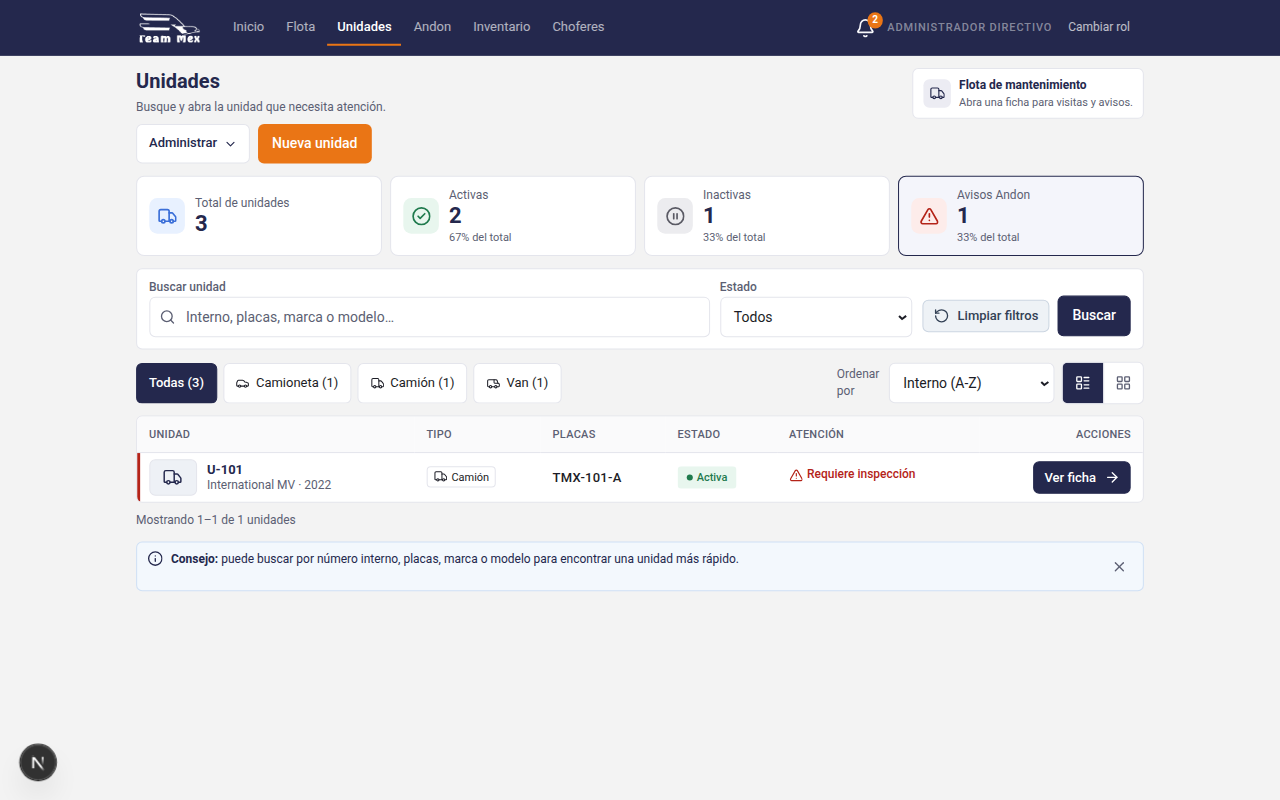
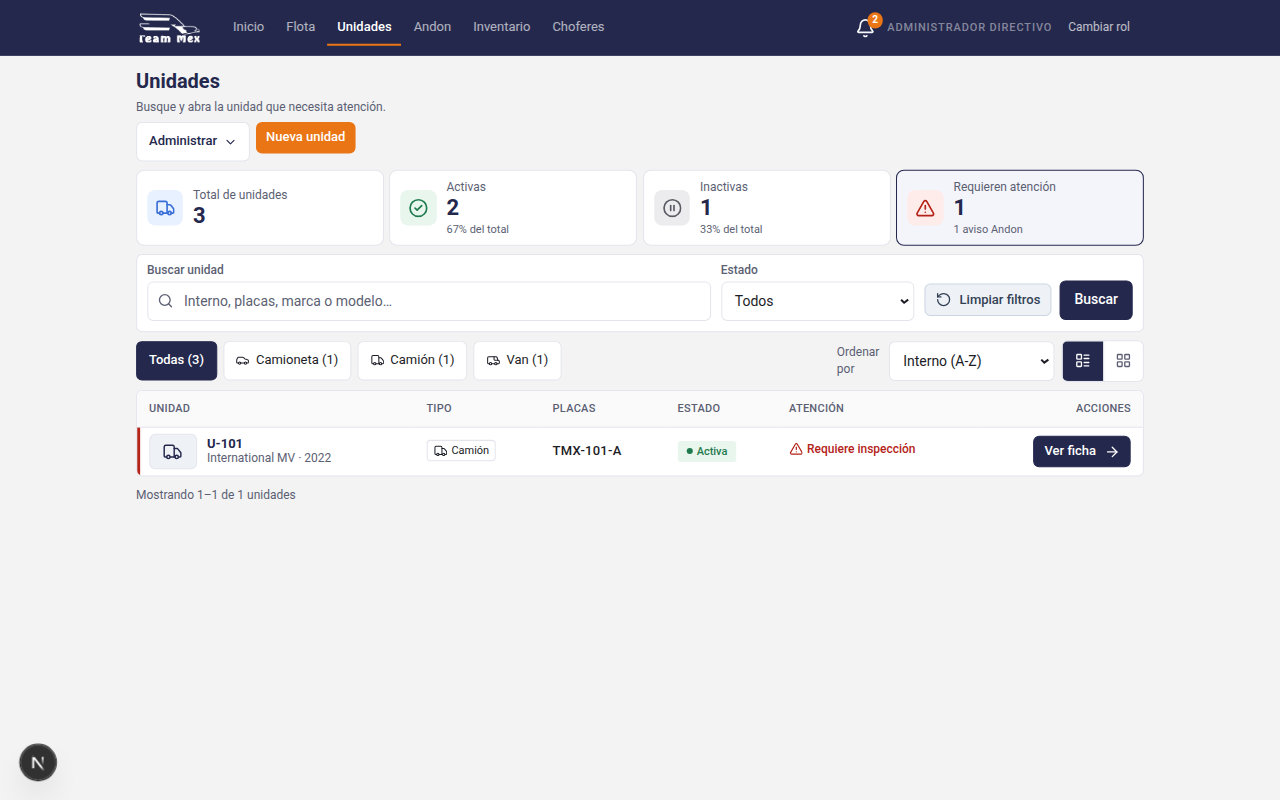
UI: proof del polish de Unidades y tooltip de vista
El toggle lista/tarjetas ya no recorta el tooltip. Screenshots del
hero sin Flota, KPI Requieren atención y mobile compacto.

diff --git a/web/src/app/globals.css b/web/src/app/globals.css
@@ -1581,7 +1581,6 @@
     display: inline-flex;
     border: 1px solid var(--line);
     border-radius: 6px;
-    overflow: hidden;
     background: var(--white);
   }
 
@@ -1596,6 +1595,14 @@
     background: transparent;
     color: var(--muted-foreground);
     cursor: pointer;
+  }
+
+  .unidades-vista button:first-child {
+    border-radius: 5px 0 0 5px;
+  }
+
+  .unidades-vista button:last-child {
+    border-radius: 0 5px 5px 0;
   }
 
   .unidades-vista button + button {
